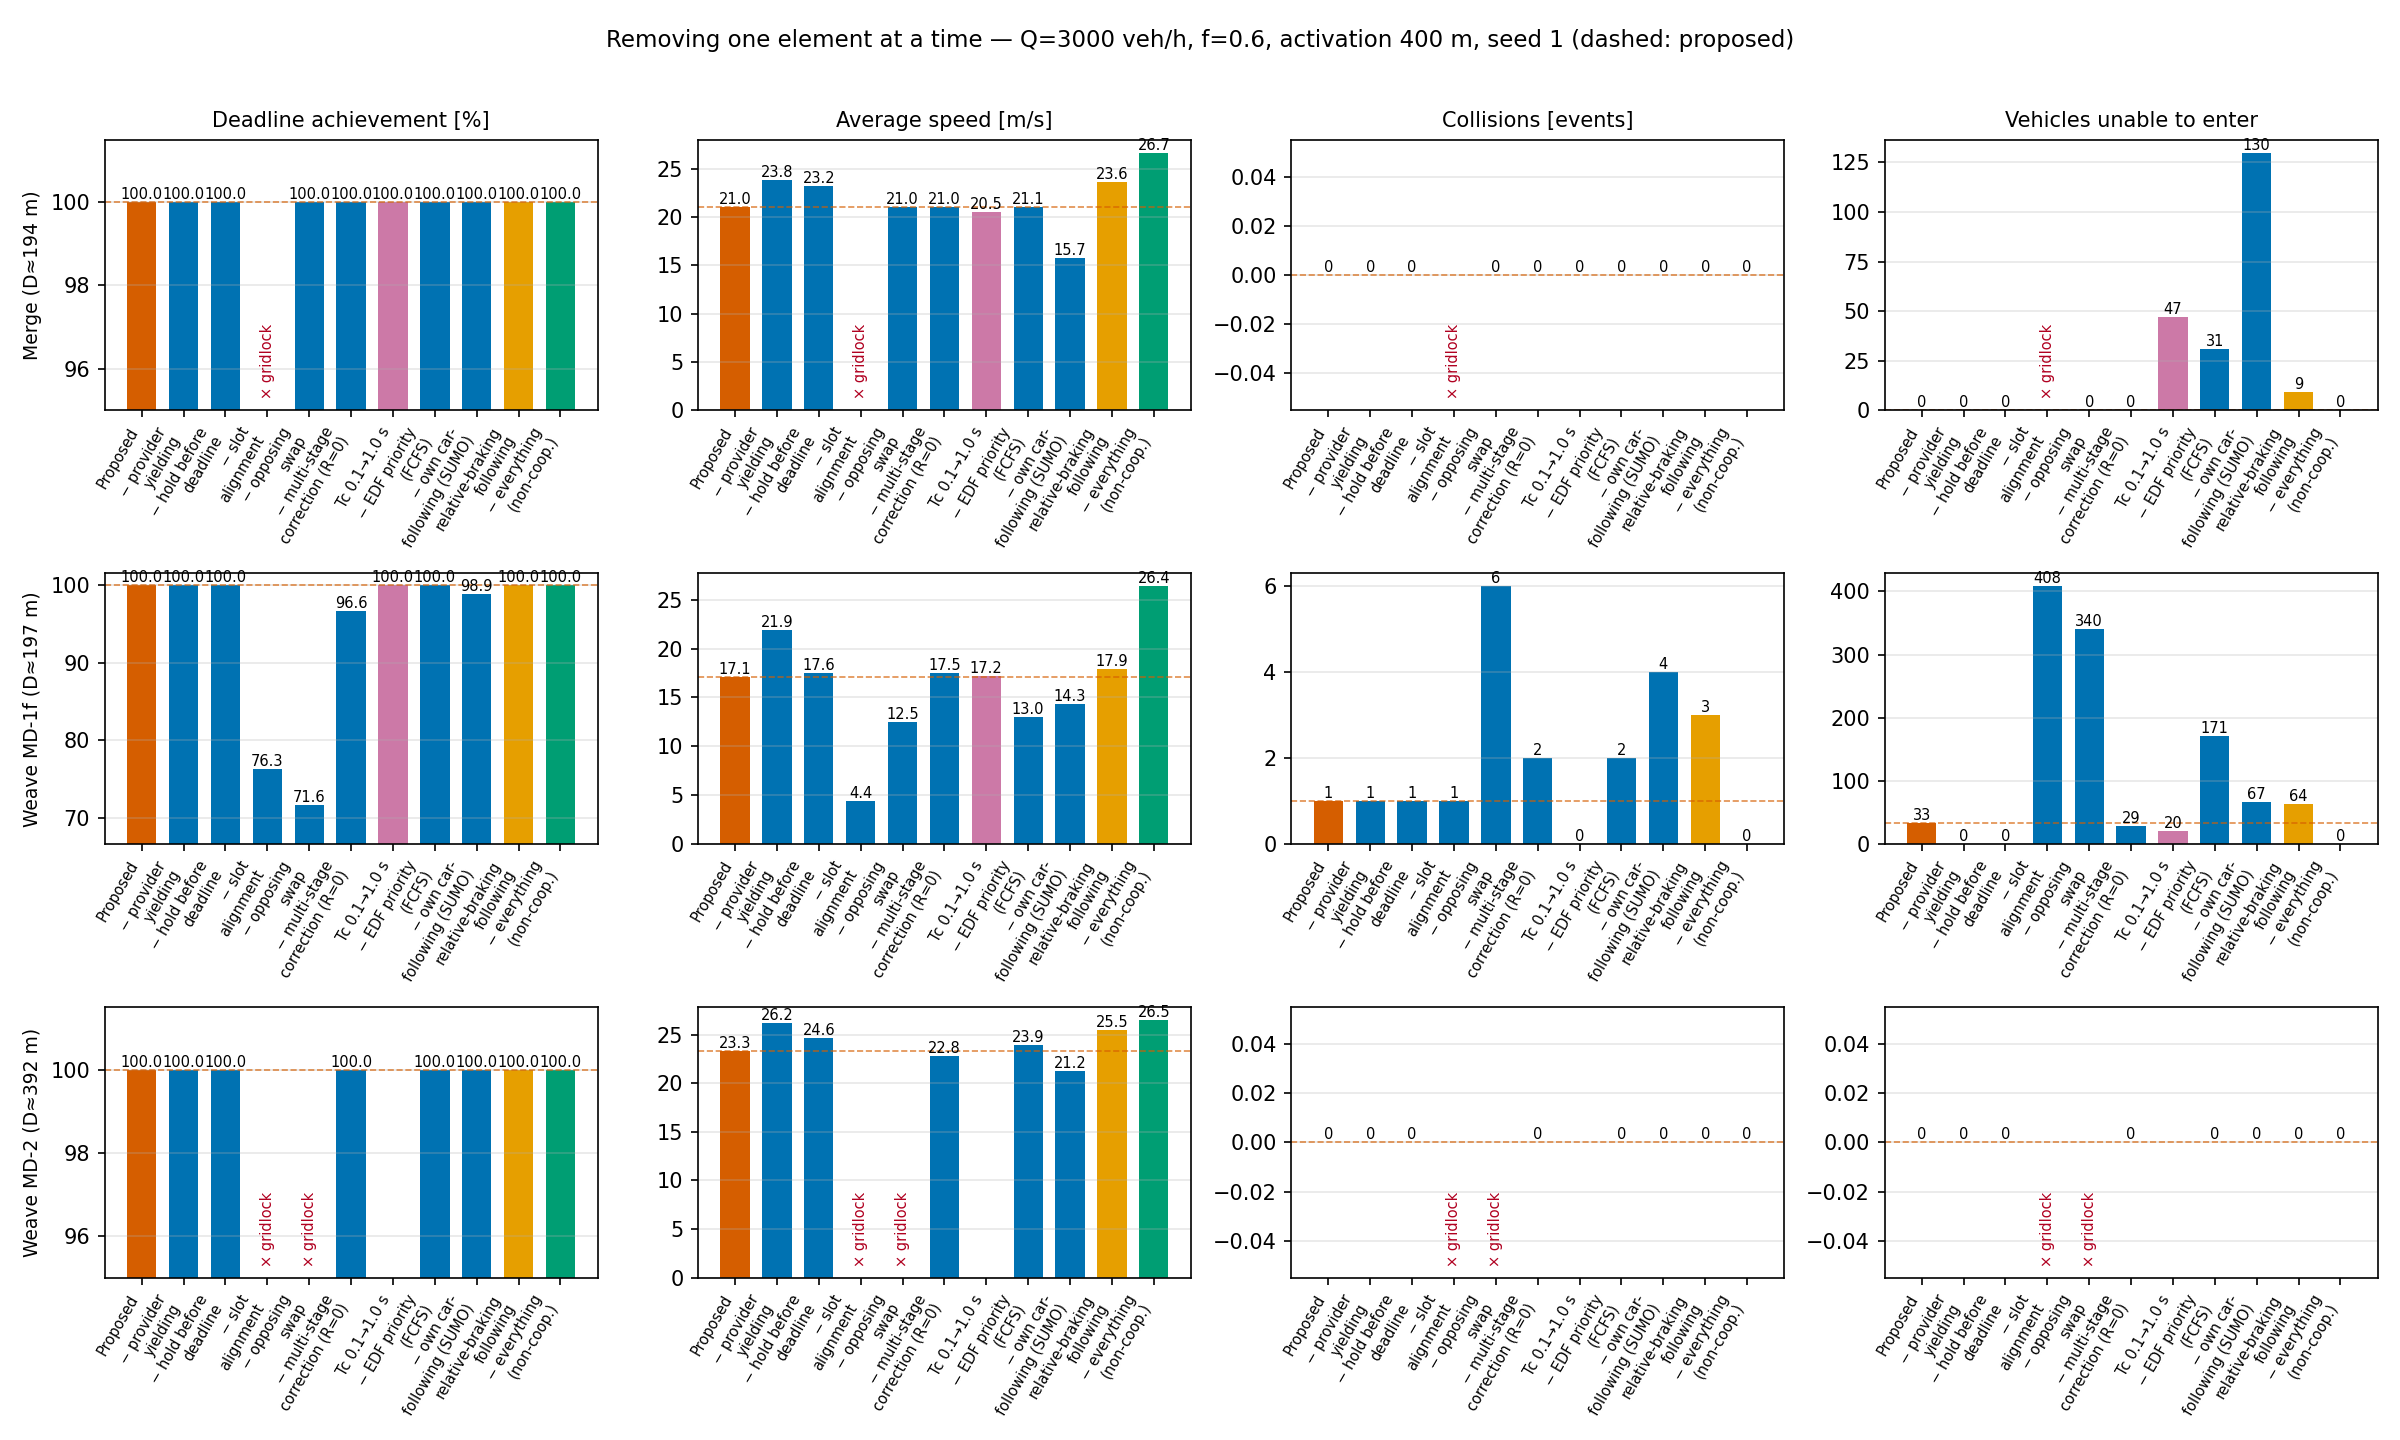
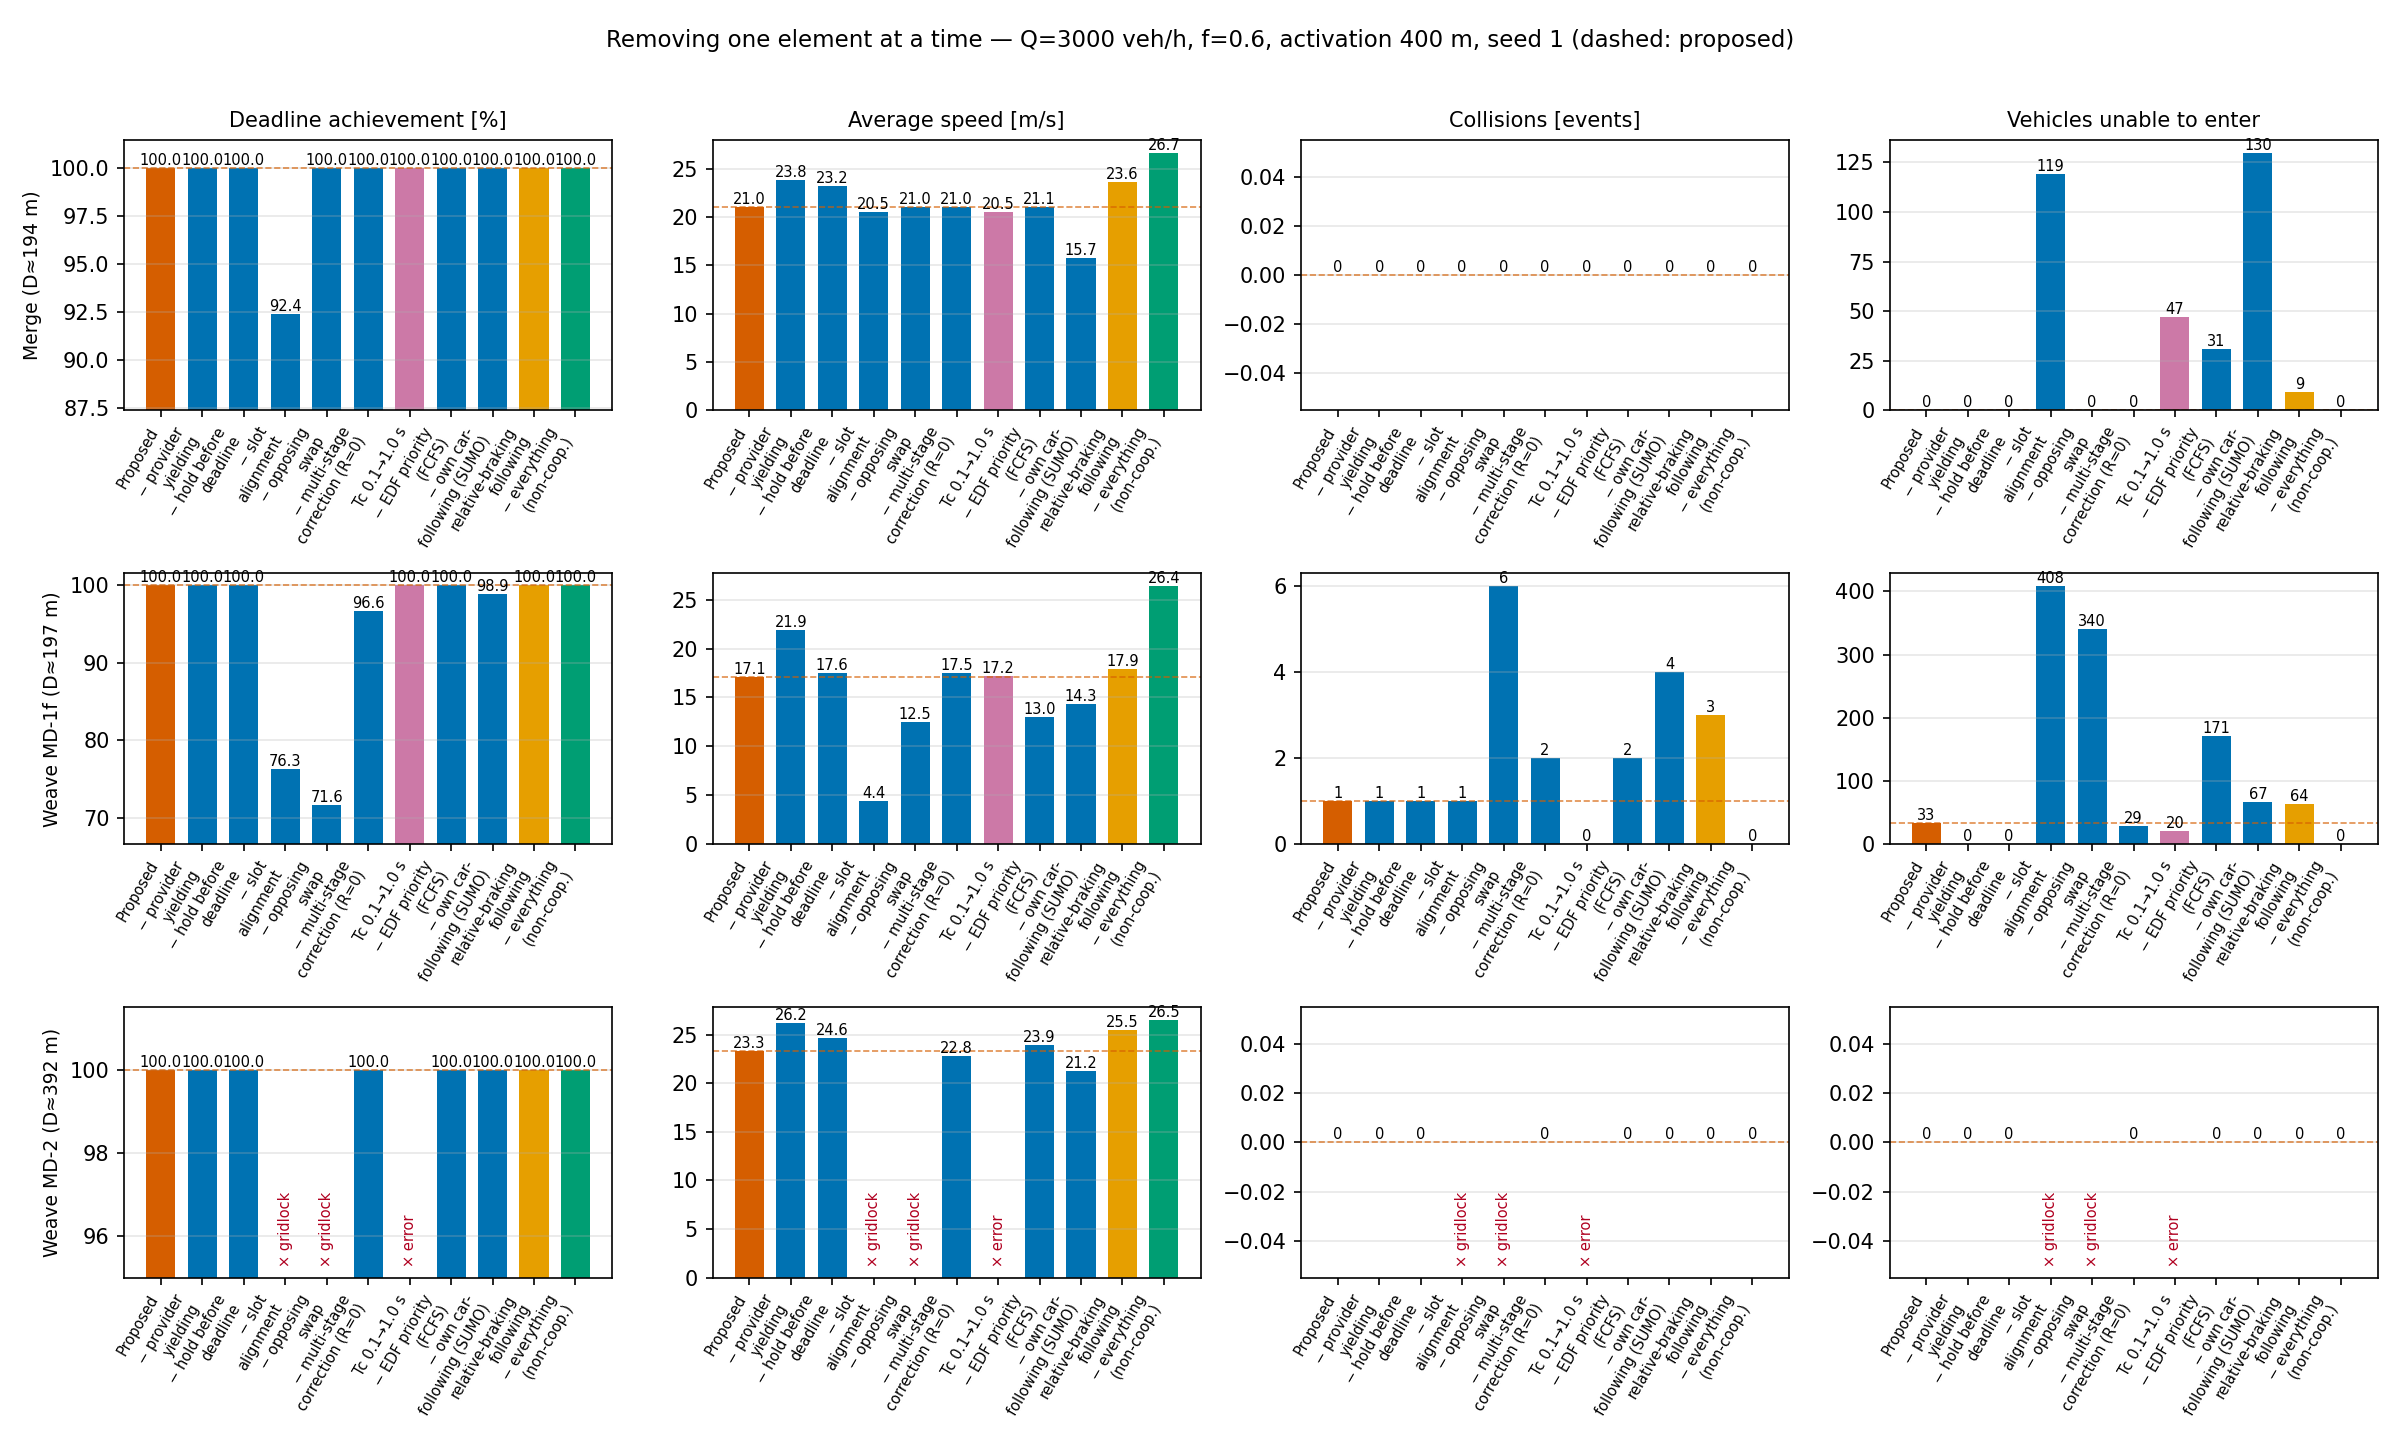
eval(tsk125): 要素の除去を通知が遅い条件（weave・活性化 100 m）でも採取（E4b），図表を更新 [TSK-125]
- fig_ablation_*_am100.png, table_ablation_am100.csv（--am 100 --envs weave）
- 実時間上限で打ち切られたが裏で最後まで進んだ run（noalign merge/weave2 f0.4 など）の数値を既定条件の表に反映
- 図表スクリプト: --envs 追加，timeout と failed（例外）を区別して表示

diff --git a/scripts/eval/tsk125_ablation.py b/scripts/eval/tsk125_ablation.py
@@ -147,11 +147,11 @@ def plot(df: pd.DataFrame, f: float, q: int, seed: int, out: Path) -> None:
                     txt = f"{v:.1f}" if col in ("avg_speed", "deadline_pct") else f"{v:.0f}"
                     ax.text(x, v, txt, ha="center", va="bottom", fontsize=7)
             for x, p in zip(xs, present, strict=True):
-                if p in de.index and str(de["status"].get(p)) == "timeout":
+                if p in de.index and str(de["status"].get(p)) in ("timeout", "failed"):
                     ax.text(
                         x,
                         0.04,
-                        "× gridlock",
+                        "× gridlock" if str(de["status"].get(p)) == "timeout" else "× error",
                         rotation=90,
                         transform=ax.get_xaxis_transform(),
                         ha="center",
@@ -235,6 +235,7 @@ def table(df: pd.DataFrame, fs: list[float], q: int, seed: int, out_csv: Path) -
                     "f": f,
                     "env": r["env"],
                     "variant": r["policy"],
+                    "status": r["status"],
                     "variant_ja": VARIANT_LABEL_JA.get(str(r["policy"]), r["policy"]),
                     "deadline_pct": round(float(r["deadline_pct"]), 2),
                     "mlc_incomplete": r["mlc_incomplete"],
@@ -274,7 +275,7 @@ def table(df: pd.DataFrame, fs: list[float], q: int, seed: int, out_csv: Path) -
                 else:
                     e = te.iloc[0]
                     if e["deadline_pct"] != e["deadline_pct"]:  # NaN ＝ 打ち切り
-                        cells.append("打ち切り（グリッドロック）")
+                        cells.append("打ち切り（実時間上限）" if e["status"] == "timeout" else "失敗（例外）")
                         continue
                     cells.append(
                         f"{e['deadline_pct']:.1f} / {int(e['collisions'])} / {e['avg_speed']:.1f} / "
@@ -289,9 +290,12 @@ def main() -> None:
     ap.add_argument("--q", type=int, default=3000)
     ap.add_argument("--seed", type=int, default=1)
     ap.add_argument("--am", type=int, default=400, help="活性化位置 [m]（既定 400。E4b は 100）")
+    ap.add_argument("--envs", nargs="+", default=None, help="描く環境（既定 merge weave weave2。E4b は weave だけ）")
     args = ap.parse_args()
     global AM
     AM = args.am
+    if args.envs:
+        ENV_ORDER[:] = args.envs
     sfx = "" if AM == 400 else f"_am{AM}"
     df = tf.load_runs()
     for f in args.f:
